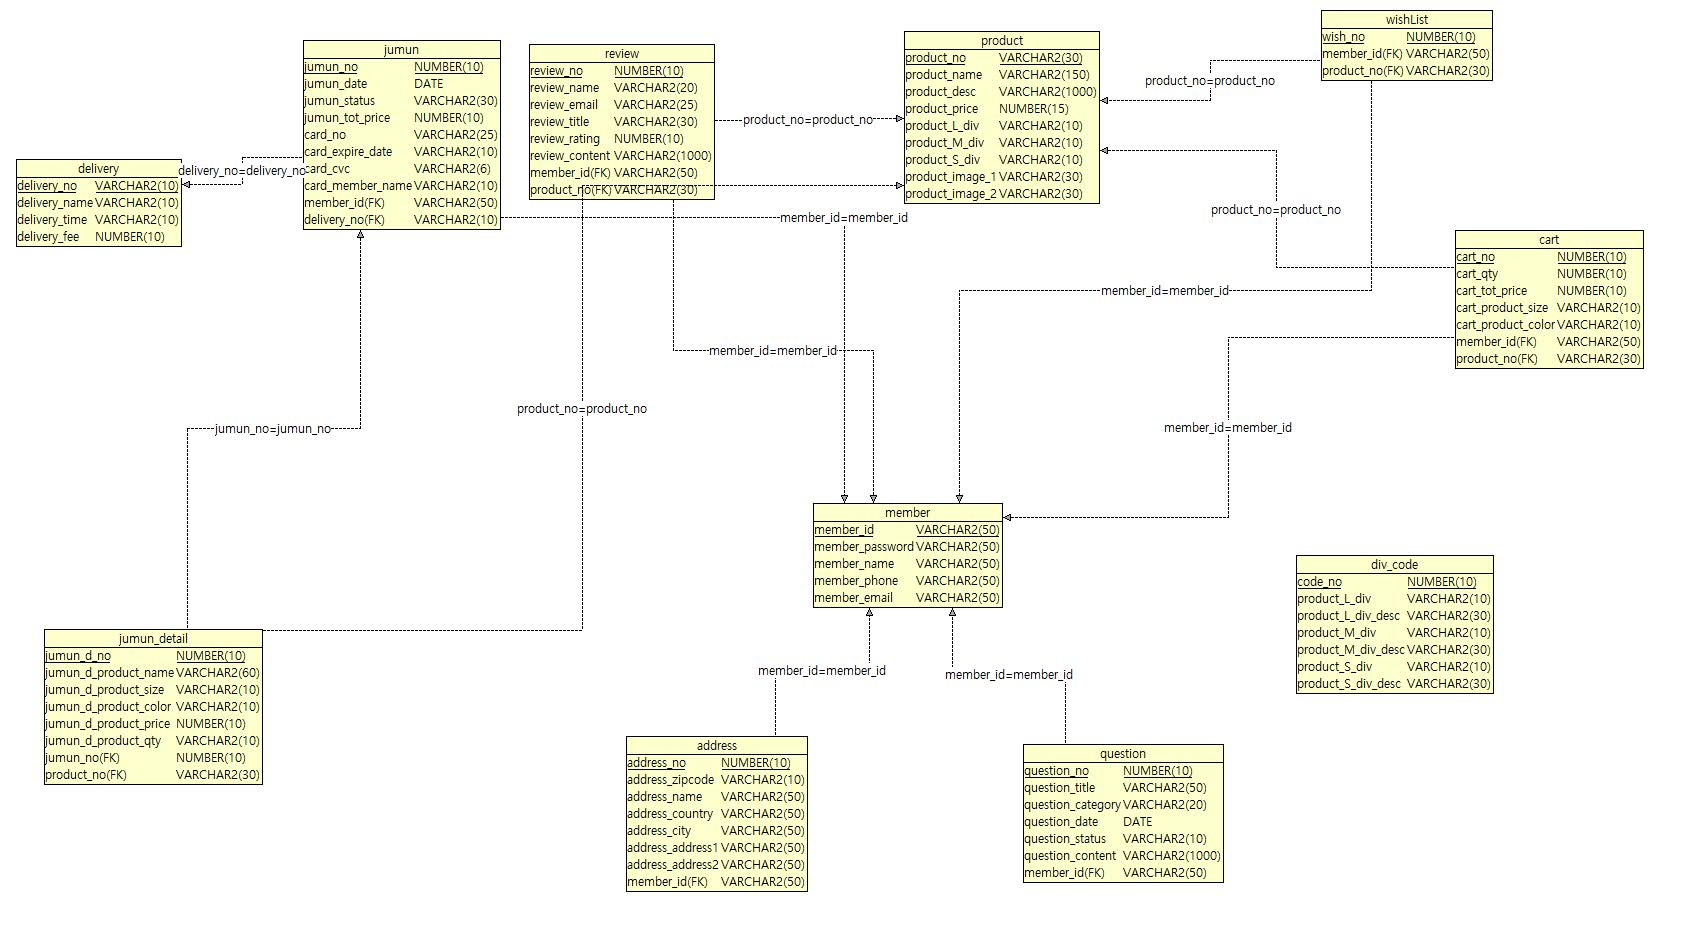
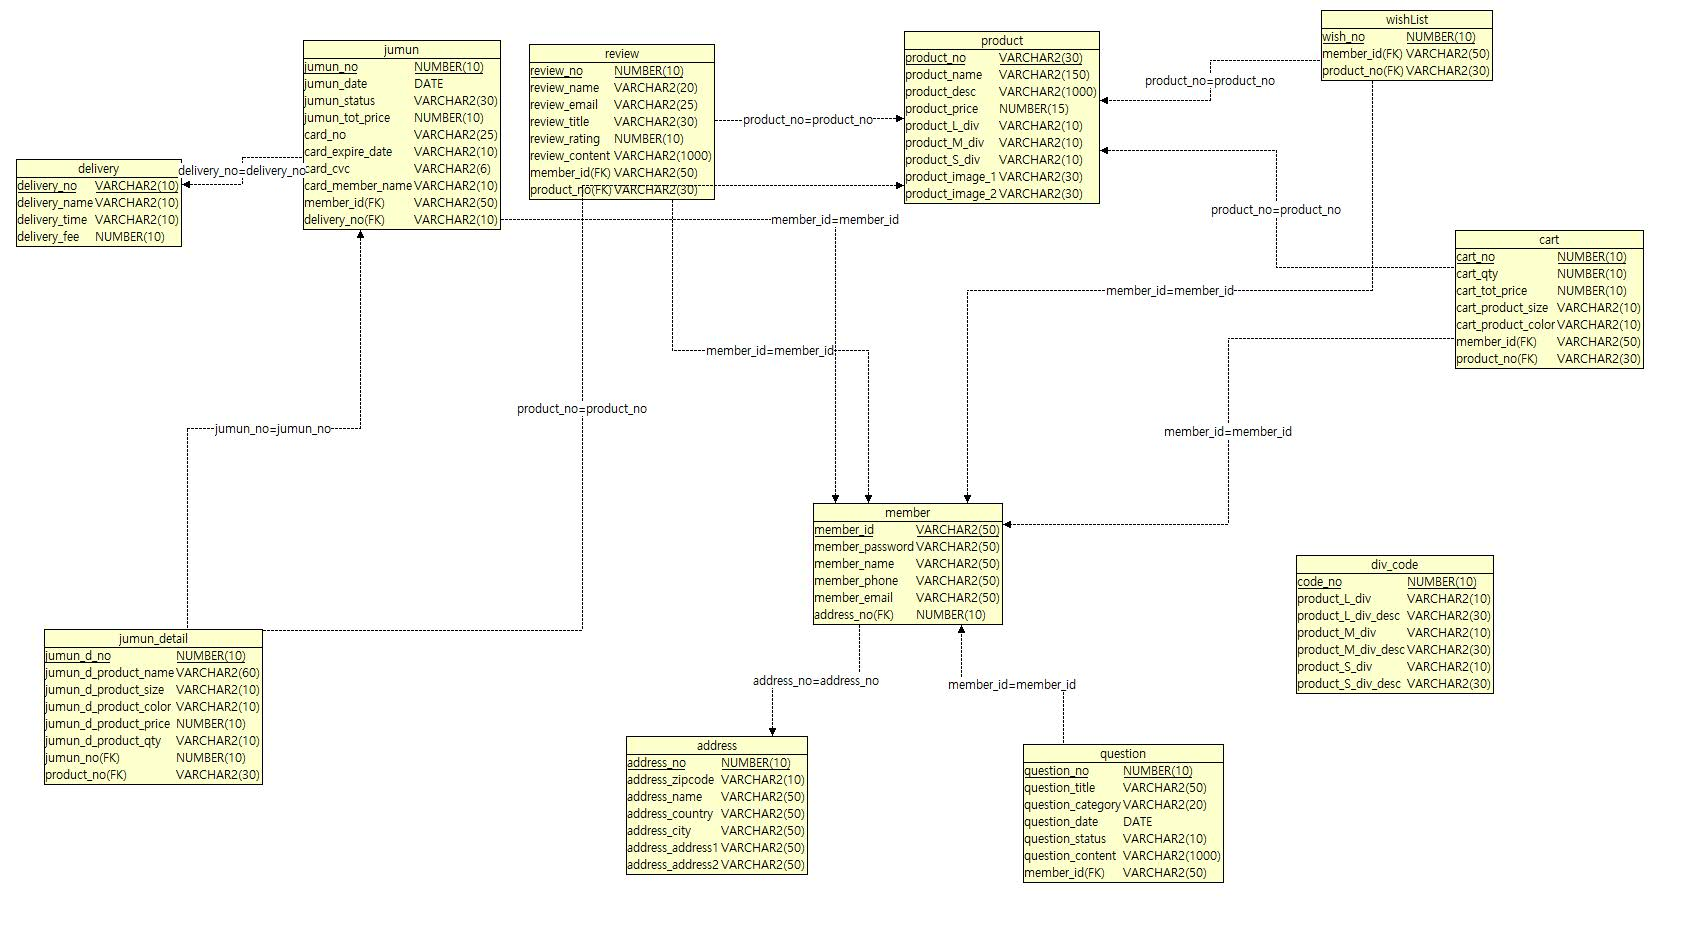
..

diff --git a/src/main/java/com/itwill/unishop/domain/Member.java b/src/main/java/com/itwill/unishop/domain/Member.java
@@ -6,19 +6,24 @@ public class Member {
 	private String member_name;
 	private String member_phone;
 	private String member_email;
-	
+	private Address address;
 	public Member() {
 		
 	}
+	
+
 	public Member(String member_id, String member_password, String member_name, String member_phone,
-			String member_email) {
+			String member_email, Address address) {
 		super();
 		this.member_id = member_id;
 		this.member_password = member_password;
 		this.member_name = member_name;
 		this.member_phone = member_phone;
 		this.member_email = member_email;
+		this.address = address;
 	}
+
+
 	public String getMember_id() {
 		return member_id;
 	}
@@ -49,10 +54,16 @@ public class Member {
 	public void setMember_email(String member_email) {
 		this.member_email = member_email;
 	}
+	public Address getAddress() {
+		return address;
+	}
+	public void setAddress(Address address) {
+		this.address = address;
+	}
 	@Override
 	public String toString() {
 		return "Member [member_id=" + member_id + ", member_password=" + member_password + ", member_name="
-				+ member_name + ", member_phone=" + member_phone + ", member_email=" + member_email + "]";
+				+ member_name + ", member_phone=" + member_phone + ", member_email=" + member_email + ", address="
+				+ address + "]";
 	}
-	
 }

diff --git a/src/main/java/com/itwill/unishop/repository/MemberRepository.java b/src/main/java/com/itwill/unishop/repository/MemberRepository.java
@@ -1,5 +1,14 @@
 package com.itwill.unishop.repository;
 
-public interface MemberRepository {
+import com.itwill.unishop.domain.Member;
 
+public interface MemberRepository {
+	
+	public String selectMemberById(Member member);
+	
+	
+	
+	
+	
+	
 }
